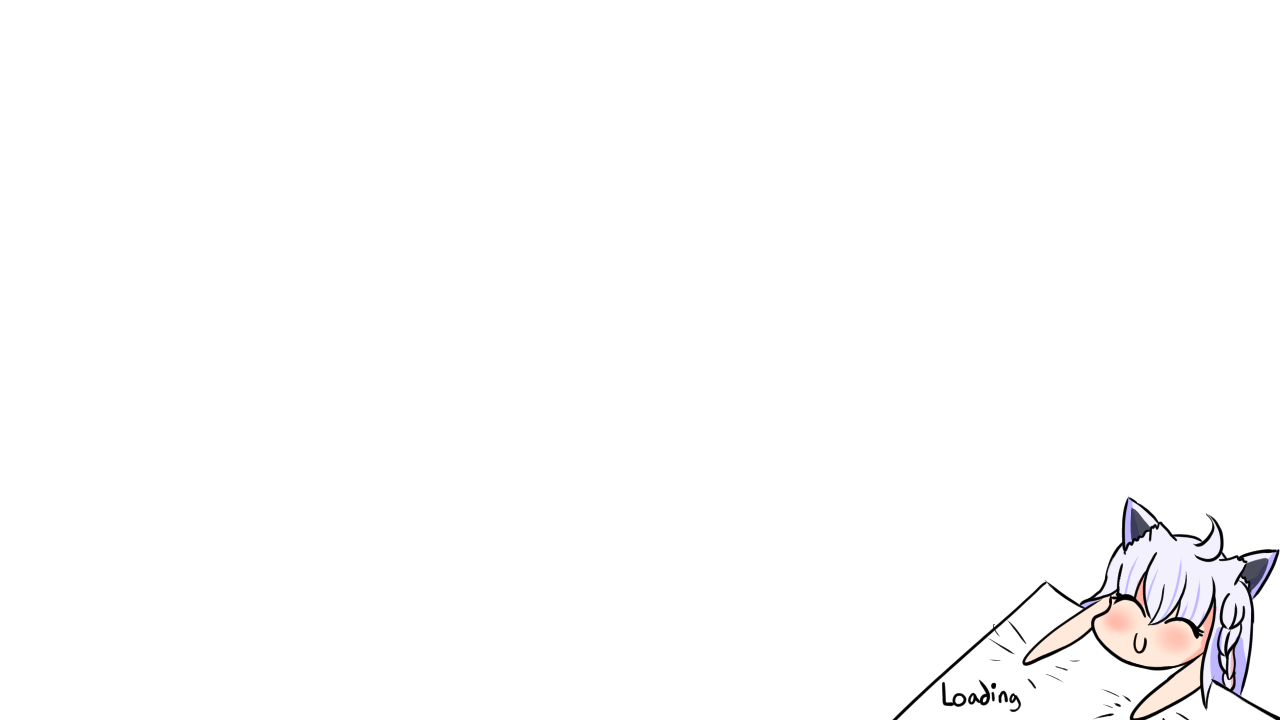
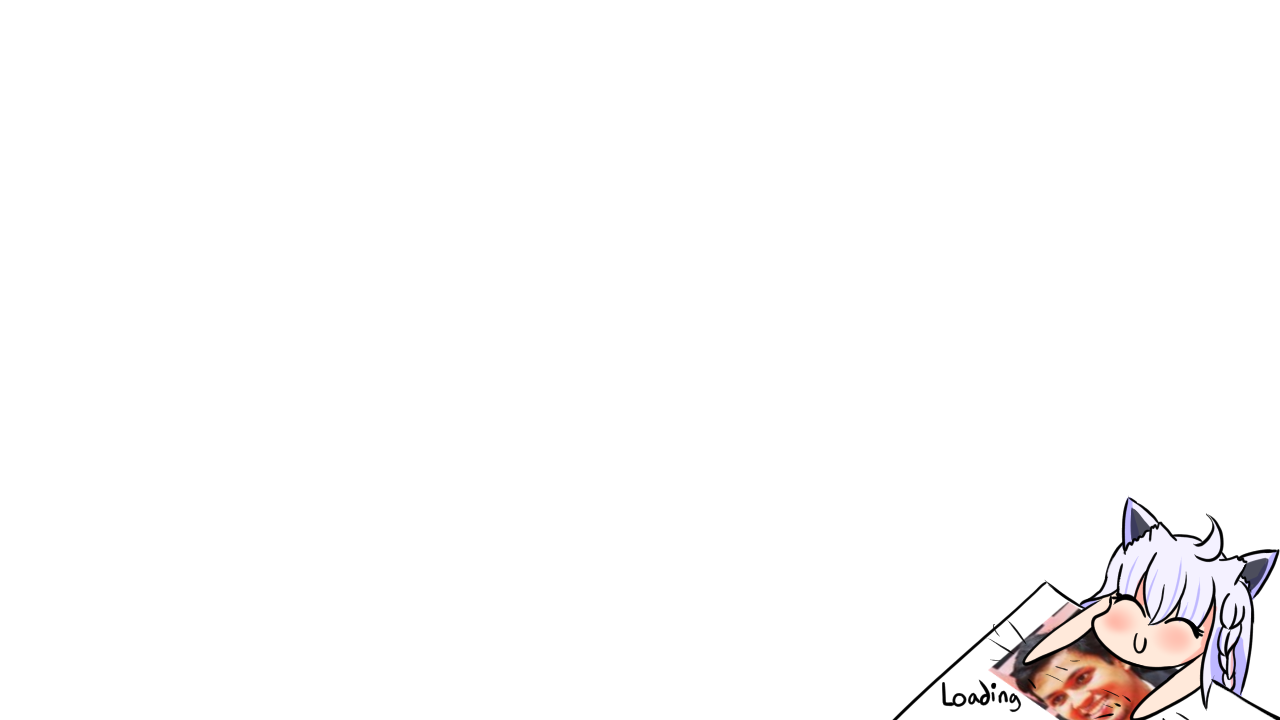
completed task 101 finish the loading screen

Changed region(s): [[0.75, 0.825, 0.9375, 1.0]]

diff --git a/LoadingScreen.py b/LoadingScreen.py
@@ -16,45 +16,81 @@ def loadScreen(currentScreen):
     bgIMG3 = pygame.image.load("../course-project-a8-mcm/images/loadingScreen/load0003.png")
     bgIMG4 = pygame.image.load("../course-project-a8-mcm/images/loadingScreen/load0004.png")
     bgIMG5 = pygame.image.load("../course-project-a8-mcm/images/loadingScreen/load0005.png")
-    status=0
+    bgalt = pygame.image.load("../course-project-a8-mcm/images/loadingScreen/loaad0000.png")
+    bgalt1 = pygame.image.load("../course-project-a8-mcm/images/loadingScreen/loaad0001.png")
+    bgalt2 = pygame.image.load("../course-project-a8-mcm/images/loadingScreen/loaad0002.png")
+    bgalt3 = pygame.image.load("../course-project-a8-mcm/images/loadingScreen/loaad0003.png")
+    bgalt4 = pygame.image.load("../course-project-a8-mcm/images/loadingScreen/loaad0004.png")
+    bgalt5 = pygame.image.load("../course-project-a8-mcm/images/loadingScreen/loaad0005.png")
+    bgalt6 = pygame.image.load("../course-project-a8-mcm/images/loadingScreen/loaad0006.png")
+    bgalt7 = pygame.image.load("../course-project-a8-mcm/images/loadingScreen/loaad0007.png")
+    bgalt8 = pygame.image.load("../course-project-a8-mcm/images/loadingScreen/loaad0008.png")
+    bgalt9 = pygame.image.load("../course-project-a8-mcm/images/loadingScreen/loaad0009.png")
+
+    # status=0
 
     # loop for loading screen and animation, runs for ~10 seconds
-    loop = tqdm(total=10, position=0, leave=False)
-    for k in range(10):
-        for temp in range(4):
-            loop.set_description("Loading...".format(k))
+    # loop = tqdm(total=10, position=0, leave=False)
+    for k in range(5):
+        for temp in range(10):
+            # loop.set_description("Loading...".format(k))
             screen.fill(0)
-            if status==0:
+            if temp==0:
                 screen.blit(bgIMG, (0,0))
+                screen.blit(bgalt,(0,0))
                 pygame.display.update()
-            elif status==1:
+            elif temp==1:
                 screen.blit(bgIMG2, (0,0))
+                screen.blit(bgalt1,(0,0))
                 pygame.display.update()
-            elif status==2:
+            elif temp==2:
                 screen.blit(bgIMG3, (0,0))
+                screen.blit(bgalt2,(0,0))
                 pygame.display.update()
-            elif status==3:
+            elif temp==3:
                 screen.blit(bgIMG4, (0,0))
+                screen.blit(bgalt3,(0,0))
                 pygame.display.update()
-            elif status==4:
+            elif temp==4:
                 screen.blit(bgIMG5, (0,0))
+                screen.blit(bgalt4,(0,0))
                 pygame.display.update()
-            print(status)
-            status+=1
-            if status>4:
-                status=0
+            elif temp==5:
+                screen.blit(bgIMG, (0,0))
+                screen.blit(bgalt5,(0,0))
+                pygame.display.update()
+            elif temp==6:
+                screen.blit(bgIMG2, (0,0))
+                screen.blit(bgalt6,(0,0))
+                pygame.display.update()
+            elif temp==7:
+                screen.blit(bgIMG3, (0,0))
+                screen.blit(bgalt7,(0,0))
+                pygame.display.update()
+            elif temp==8:
+                screen.blit(bgIMG4, (0,0))
+                screen.blit(bgalt8,(0,0))
+                pygame.display.update()
+            elif temp==9:
+                screen.blit(bgIMG5, (0,0))
+                screen.blit(bgalt9,(0,0))
+                pygame.display.update()
+            # print(status)
+            # status+=1
+            # if status>4:
+            #     status=0
             
 
             # screen.blit(logo, (5, 5))
             # screen.blit(bgIMG, (0, 0))
             
-            time.sleep(0.01)
+            time.sleep(0.02)
         # screen.blit(bgIMG2, (0, 0))
         # pygame.display.update()
         # time.sleep(0.1)
 
-        loop.update(1)
-    loop.close()
+    #     loop.update(1)
+    # loop.close()
 
 
 class MainMenu:

diff --git a/stock_info_page.py b/stock_info_page.py
@@ -3,7 +3,7 @@ from pygame.locals import *
 from Search2 import *
 from webscrape import *
 from graphs import *
-
+import futureGraphs as fg
 """
 @Authors: Musaiyab Ali, David Forrest, Sean Brasse
 The class that displays stock information when a stock is clicked on. This will mimic
@@ -273,11 +273,11 @@ class InfoPage:
                 self.updatedStock = 0
                 if self.stockToDisplay!="":
                     candleStick(self.stockToDisplay)
-                    MACD(self.stockToDisplay)
+                    fg.futureLine(self.stockToDisplay)
                     candleStickGraph = pygame.image.load(
                         "../course-project-a8-mcm/candlestick.png")
                     mcdonaldsGraph = pygame.image.load(
-                        "../course-project-a8-mcm/macd.png")
+                        "../course-project-a8-mcm/lstm.png")
 
 
 # calls the method to run the program
